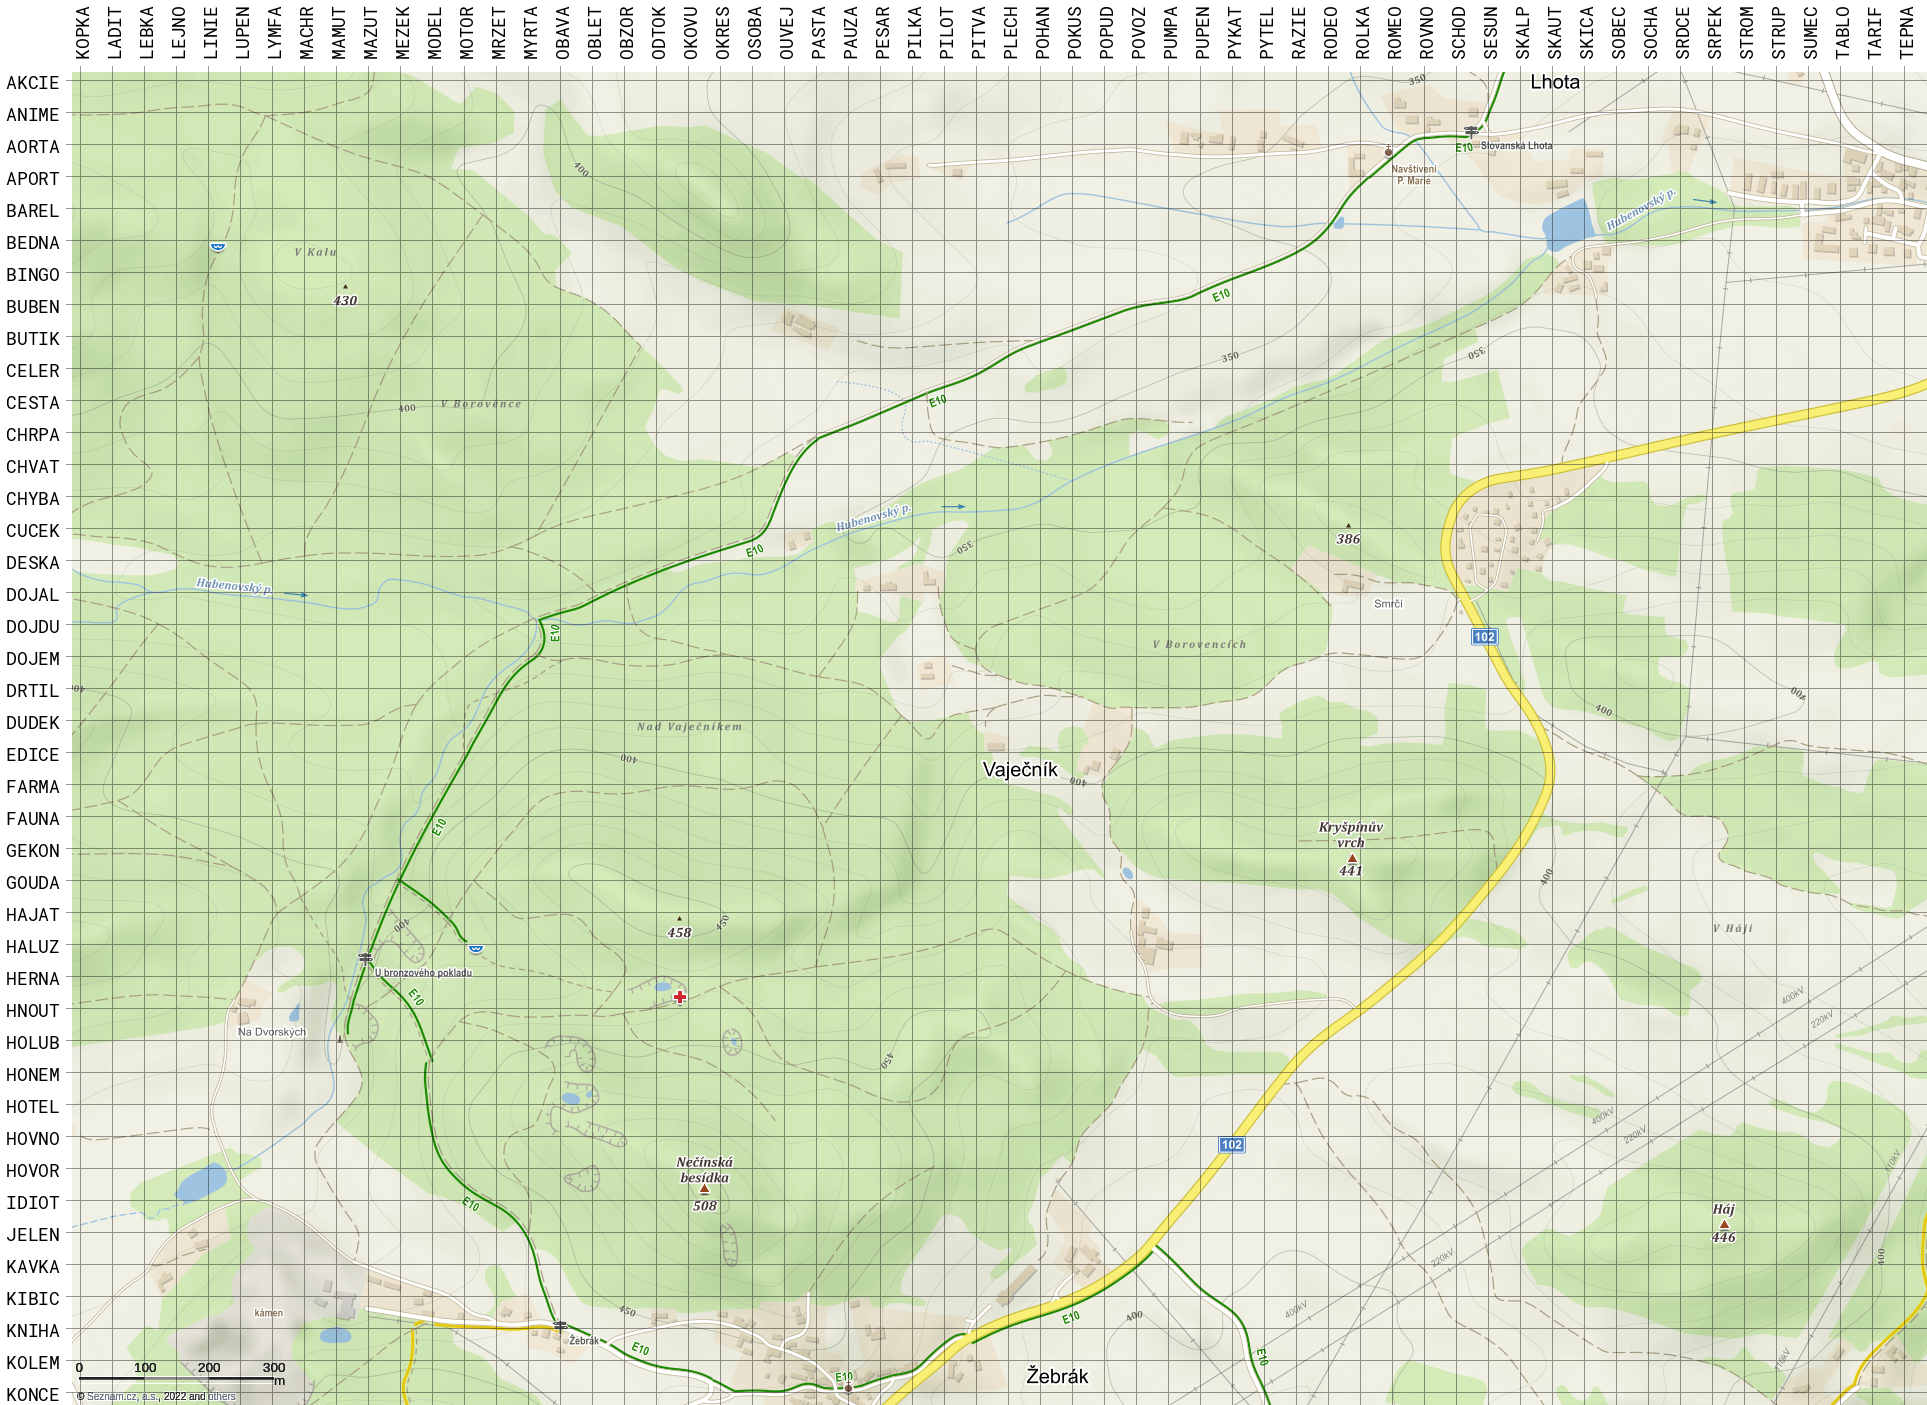
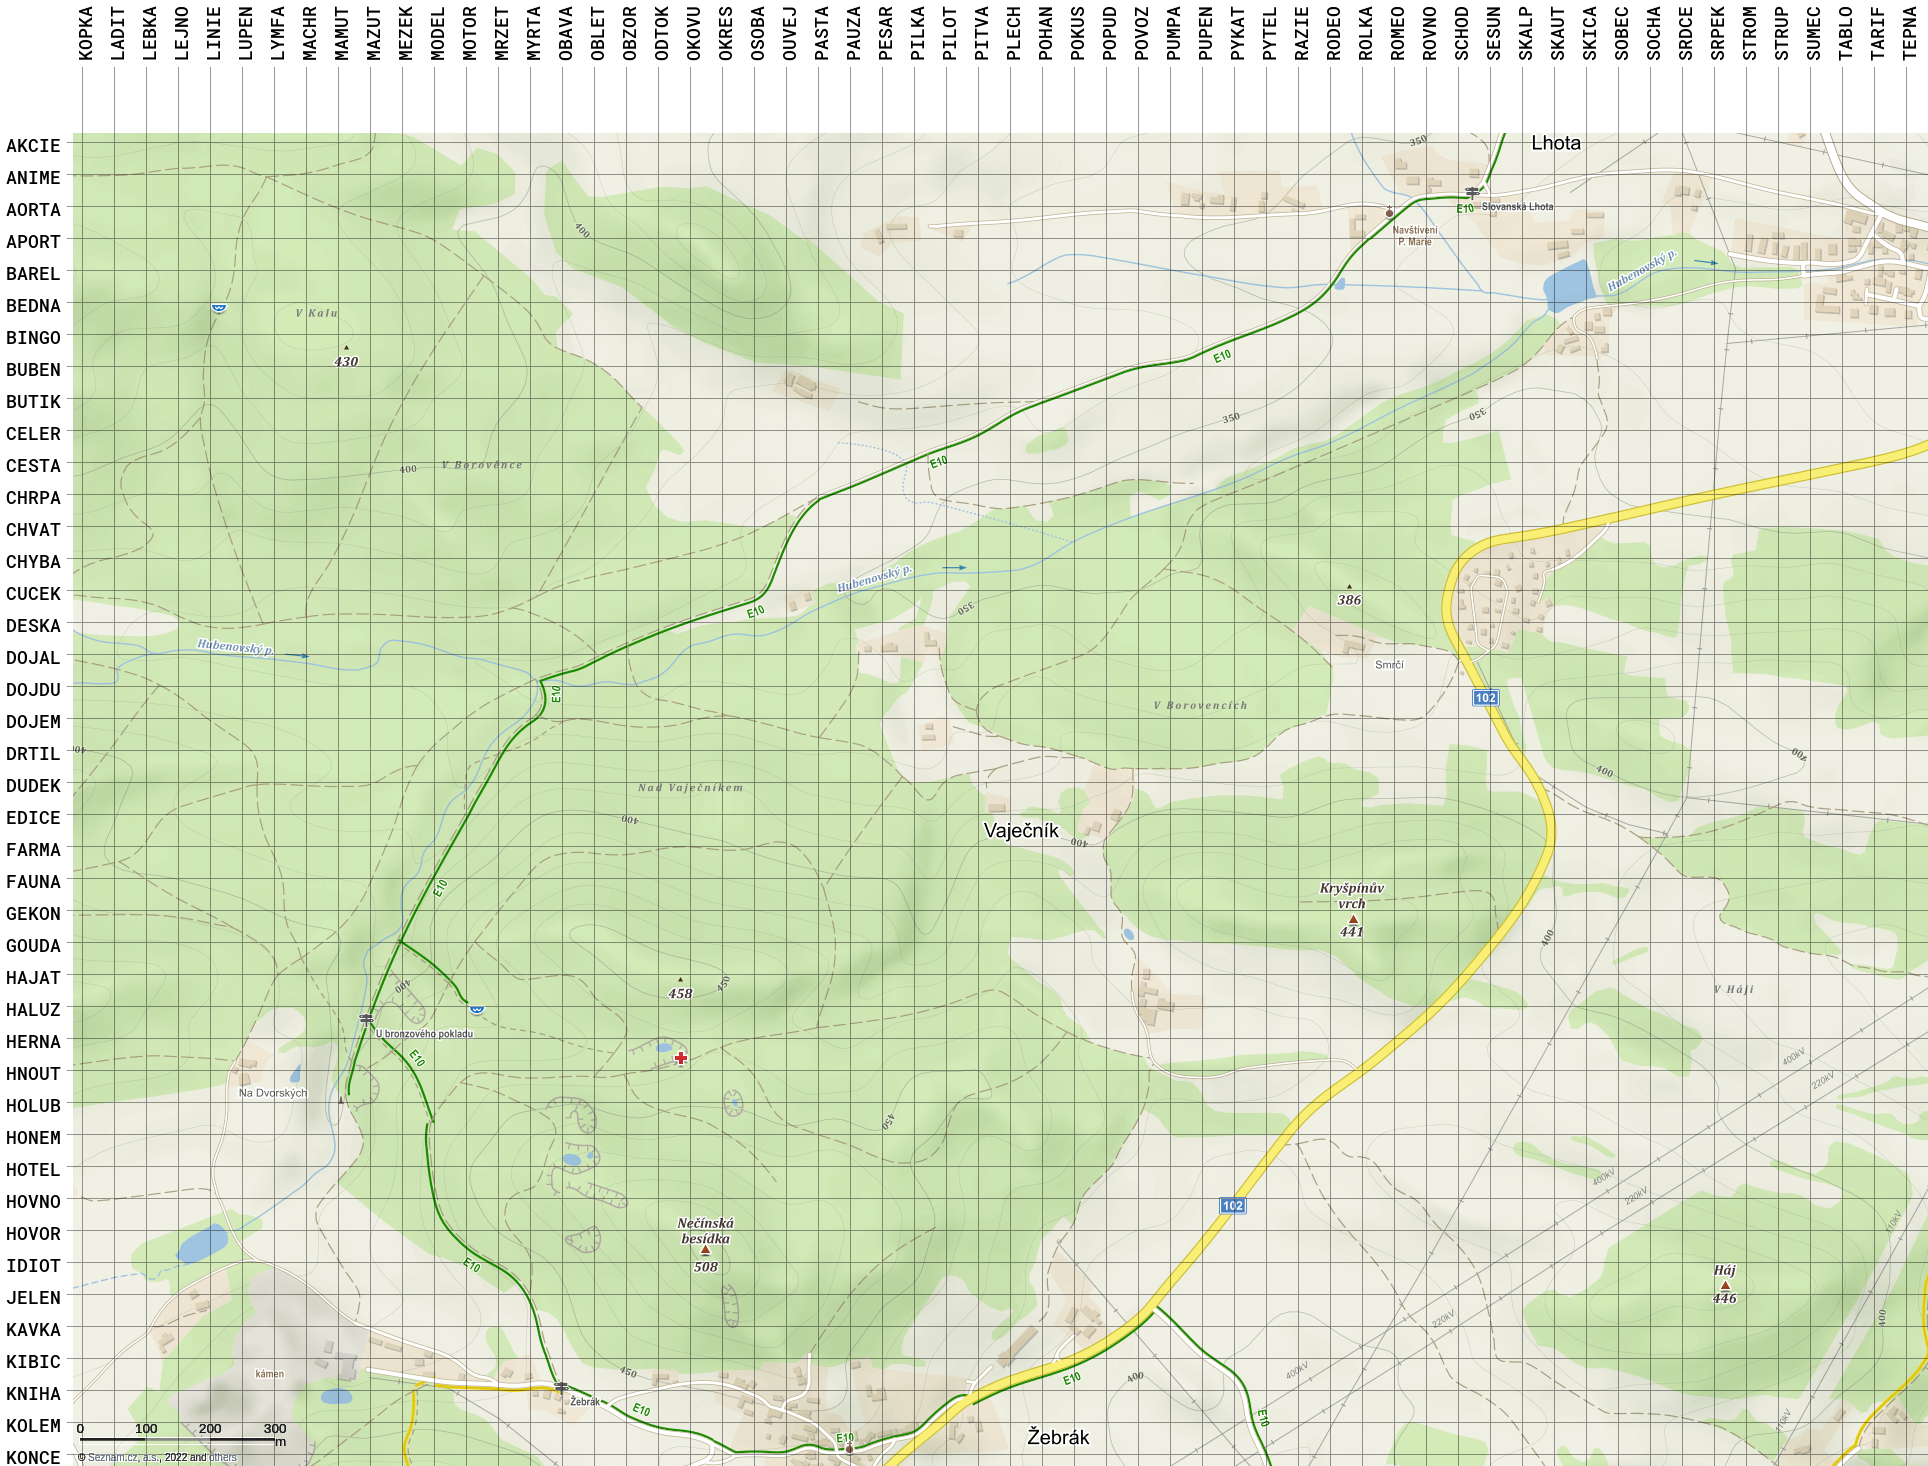
move y lines by 10

diff --git a/gen-img.py b/gen-img.py
@@ -12,7 +12,7 @@ def main():
     width, height = map_img.size
     words = sorted(load_words())
 
-    font = ImageFont.truetype("/home/tivvit/.local/share/fonts/Roboto Mono for Powerline.ttf", 18)
+    font = ImageFont.truetype("RobotoMono-Medium.ttf", 18)
 
     # measure text size
     img = Image.new("RGBA", (width, height))
@@ -22,7 +22,7 @@ def main():
     distance = 32
     text_side_bumper = 6
     safe_zone_left = text_width + 3 * text_side_bumper  # 1x for each side and once for line coming out of the image
-    safe_zone_up = text_width + 3 * text_side_bumper  # 1x for each side and once for line coming out of the image
+    safe_zone_up = text_width + 13 * text_side_bumper  # 1x for each side and once for line coming out of the image
     map_with_white = Image.new("RGBA", (width + safe_zone_left, height + safe_zone_up), (255, 255, 255, 255))
     map_with_white.paste(map_img, (safe_zone_left, safe_zone_up))
 
